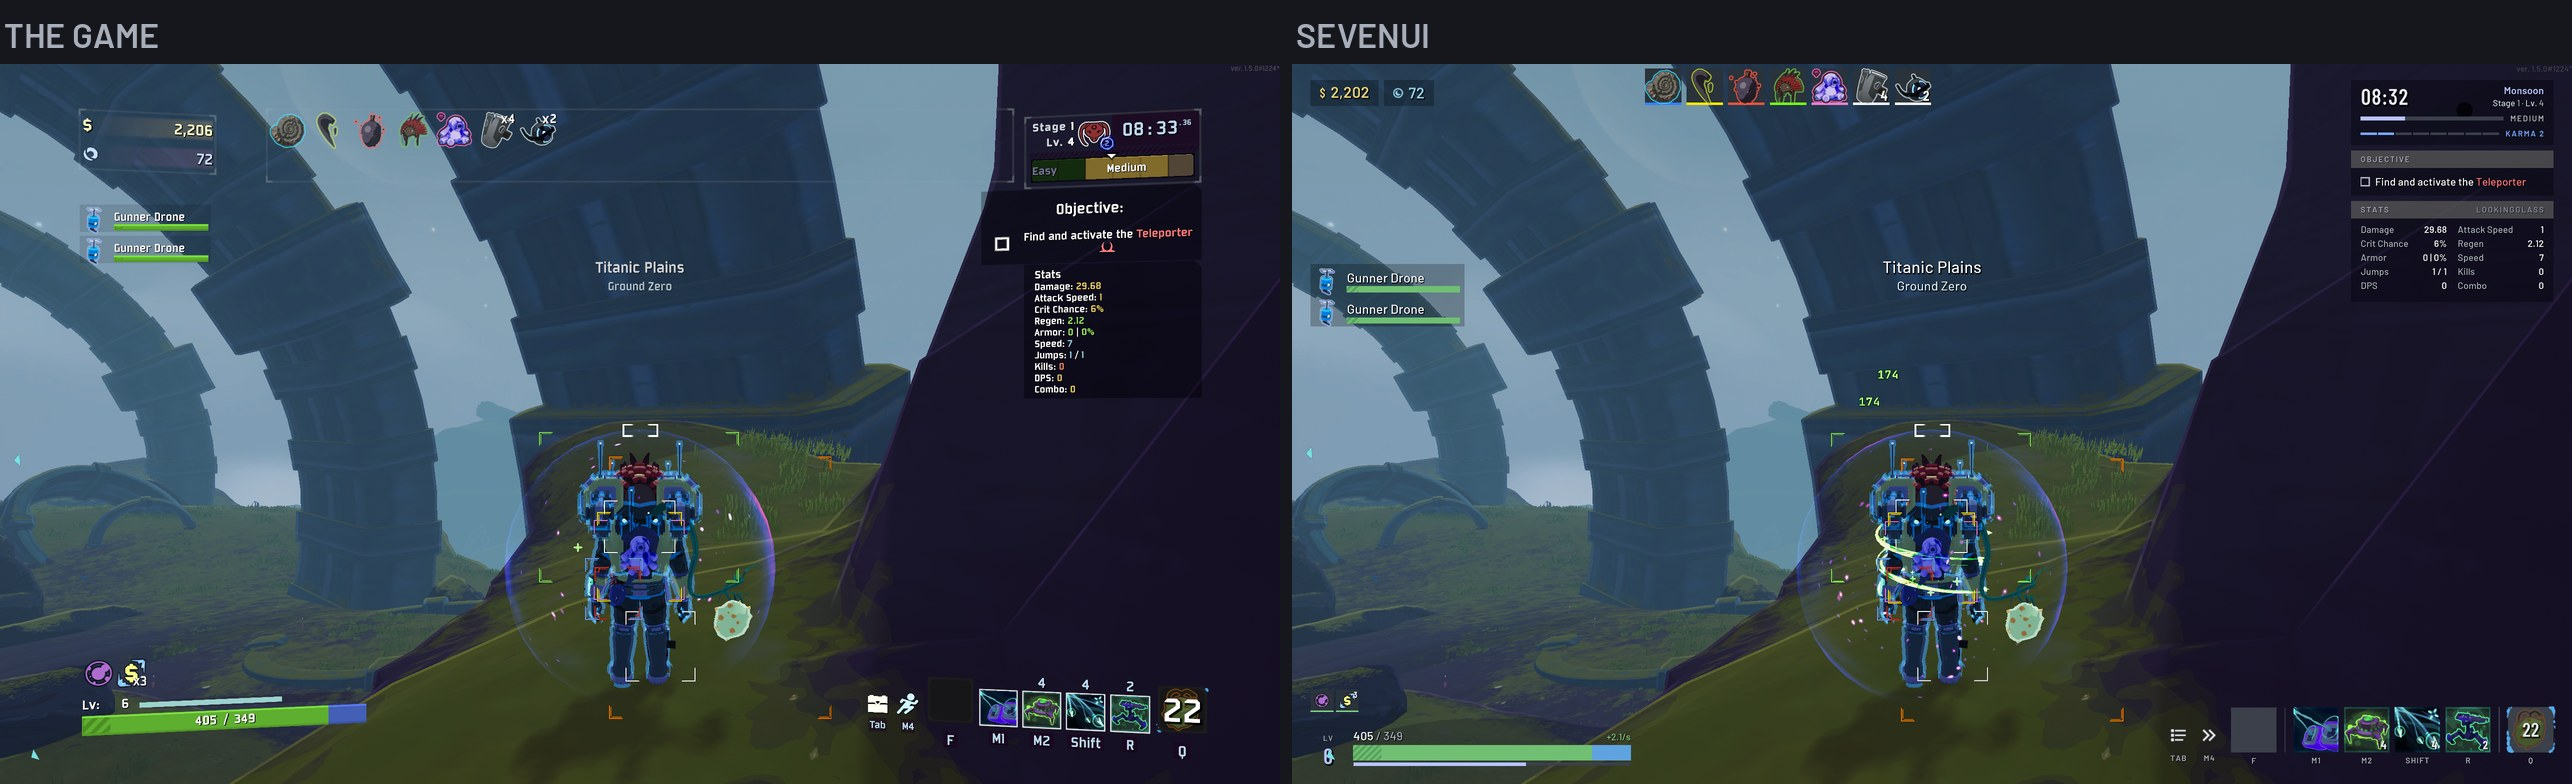
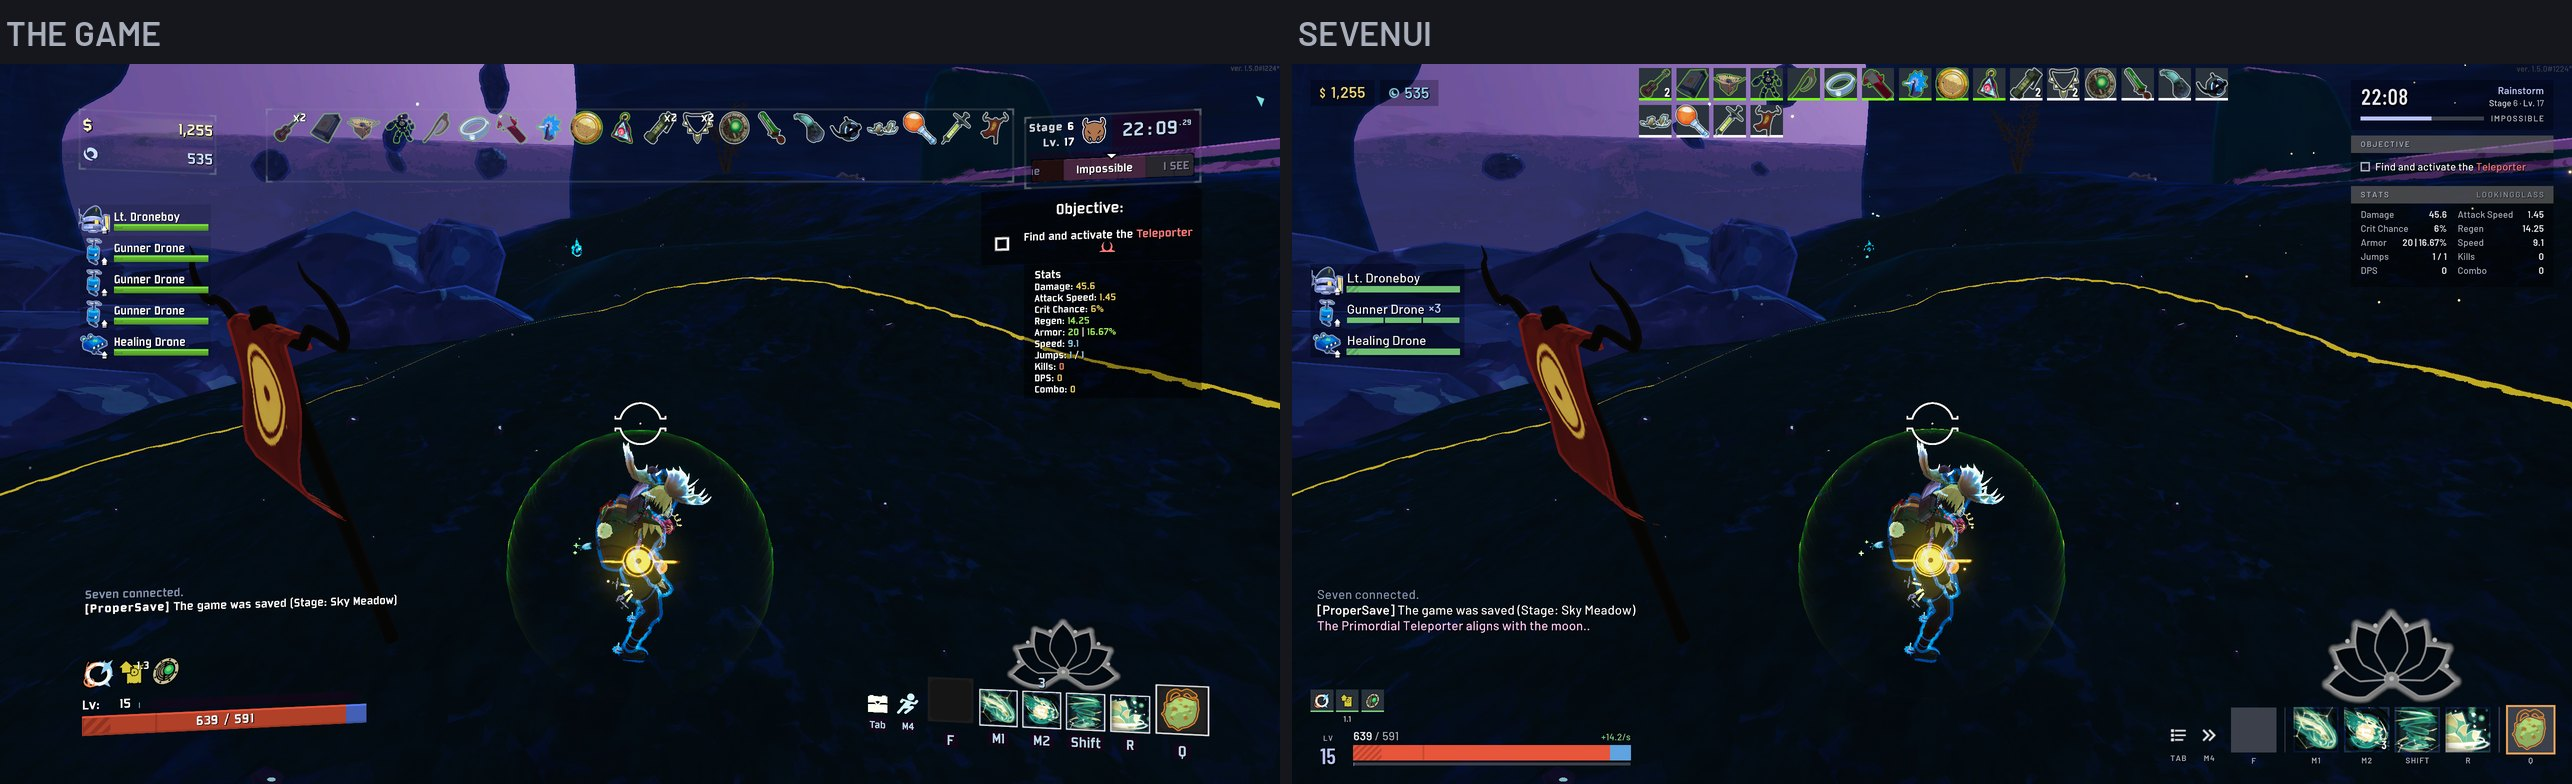
Show the new scoreboard, deck and a run in progress in the README
The scoreboard screenshot still showed the old board with column
headers. The README now shows the board as rows with an item described
in its panel, crowded and collapsed to a tab, the Functional Coupler's
deck, a fresh run's HUD, and a before and after taken midway through a
run instead of on the first stage.

diff --git a/README.md b/README.md
@@ -19,13 +19,19 @@ Found a bug or have an idea? Open an issue on [GitHub](https://github.com/jacob5
 - **Scoreboard:** a row or a tab per player, with item counts per tier and the items at full size sorted by tier. The item or equipment you point at is described in a panel docked on the board, with who else holds it.
 - **Tooltips, item pickers and pause menu:** restyled to match.
 
-![The game's HUD and SevenUI side by side](https://raw.githubusercontent.com/jacob5567/SevenUI/main/docs/screenshots/before-after.jpg)
+![The game's HUD and SevenUI side by side, midway through a run](https://raw.githubusercontent.com/jacob5567/SevenUI/main/docs/screenshots/before-after.jpg)
+
+![The HUD at the start of a run](https://raw.githubusercontent.com/jacob5567/SevenUI/main/docs/screenshots/run-start.jpg)
 
 ![An interaction prompt and a pickup notification](https://raw.githubusercontent.com/jacob5567/SevenUI/main/docs/screenshots/prompts.jpg)
 
 ![Gunner Drones sharing an ally card beside a Gunner Turret's](https://raw.githubusercontent.com/jacob5567/SevenUI/main/docs/screenshots/allies.jpg)
 
-![The scoreboard](https://raw.githubusercontent.com/jacob5567/SevenUI/main/docs/screenshots/scoreboard.jpg)
+![The scoreboard with four players, describing the item pointed at](https://raw.githubusercontent.com/jacob5567/SevenUI/main/docs/screenshots/scoreboard.jpg)
+
+![A crowded scoreboard collapsed to your tab](https://raw.githubusercontent.com/jacob5567/SevenUI/main/docs/screenshots/scoreboard-crowded.jpg)
+
+![The equipment a Functional Coupler holds, above the equipment slot](https://raw.githubusercontent.com/jacob5567/SevenUI/main/docs/screenshots/equipment-deck.jpg)
 
 ![An item picker](https://raw.githubusercontent.com/jacob5567/SevenUI/main/docs/screenshots/picker.jpg)
 
